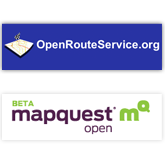
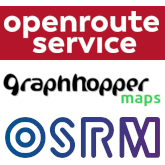
update link to routers, remove dead projects

diff --git a/index.html b/index.html
@@ -293,13 +293,13 @@ jQuery(document).ready(function() {
 			        				<ul>
 										<li>
 											<a target="_blank" href="http://tools.geofabrik.de/mc/">
-											<img src="img/mapcompare.png" alt="" />
+											<img src="img/map-compare.png" alt="" />
 											</a>
-											<div class="description"><a target="_blank" href="http://tools.geofabrik.de/mc/">Vergleiche die OSM Karte mit anderen Karten</a></div>
+											<div class="description"><a target="_blank" href="https://mc.bbbike.org/mc/">Vergleiche OSM-Karten mit anderen Karten</a></div>
 										</li>
 										<li>
 											<img src="img/routeservices.png" alt="" />
-											<div class="description">Routenplaner, z.B. <a target="_blank" href="http://openrouteservice.org/">OpenRouteService</a> und <a target="_blank" href="http://open.mapquest.de/">MapQuest</a></div>
+											<div class="description">Routenplaner, z.B. <a target="_blank" href="http://maps.openrouteservice.org/directions">Openrouteservice</a>, <a target="_blank" href="https://graphhopper.com/maps/">GraphHopper</a> und <a target="_blank" href="https://routing.openstreetmap.de/?hl=de">Open Source Routing Machine</a></div>
 										</li>
 										<li>
 											<a target="_blank" href="http://www.openstreetmap.org/export">
@@ -308,28 +308,10 @@ jQuery(document).ready(function() {
 											<div class="description"><a target="_blank" href="http://www.openstreetmap.org/export">Exportiere OSM-Daten in verschiedenen Formaten, u.a. zum Ausdrucken</a></div>
 										</li>
 										<li>
-											<a target="_blank" href="//www.openstreetmap.de/faq.html#fehler_melden">
-											<img src="img/osb.png" alt="" />
-											</a>
-											<div class="description"><a target="_blank" href="//www.openstreetmap.de/faq.html#fehler_melden">Melde Fehler in der<br> OSM Karte</a></div>
-										</li>
-										<li>
-											<a target="_blank" href="http://www.mapdust.com/">
-											<img src="img/mapdust.png" alt="" />
-											</a>
-											<div class="description"><a target="_blank" href="http://www.mapdust.com/">Weiteres Portal mit umfangreichen Fehlerberichten und Filtern</a></div>
-										</li>
-										<li>
 											<a target="_blank" href="http://yapis.geoclub.de/">
 											<img src="img/yapis.png" alt="" />
 											</a>
 											<div class="description"><a target="_blank" href="http://yapis.geoclub.de/">Schnell und einfach interessante Orte (POIs) eintragen</a></div>
-										</li>
-										<li>
-											<a target="_blank" href="http://www.itoworld.com/static/openstreetmap_tools.html">
-											<img src="img/ito1.png" alt="" />
-											</a>
-											<div class="description"><a target="_blank" href="http://www.itoworld.com/static/openstreetmap_tools.html">Verschiedene Tools zur OSM Daten-Analyse (Englische Seite)</a></div>
 										</li>
 										<li>
 											<a target="_blank" href="http://osmtools.de/easymap/">
